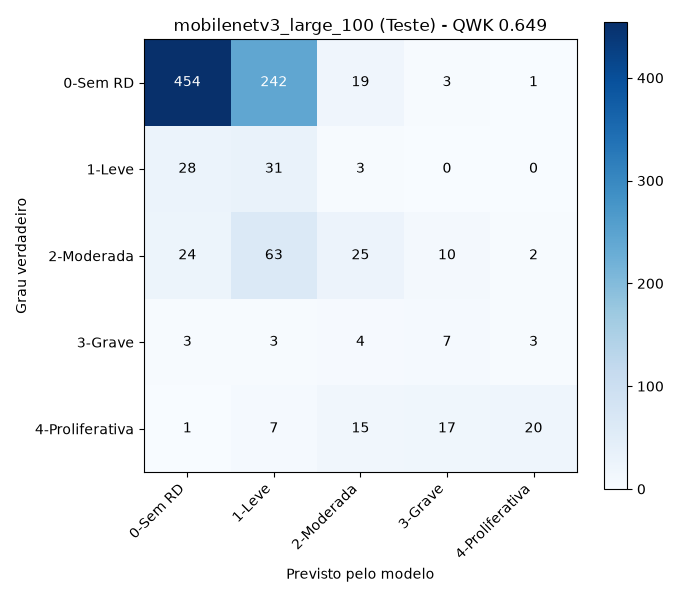
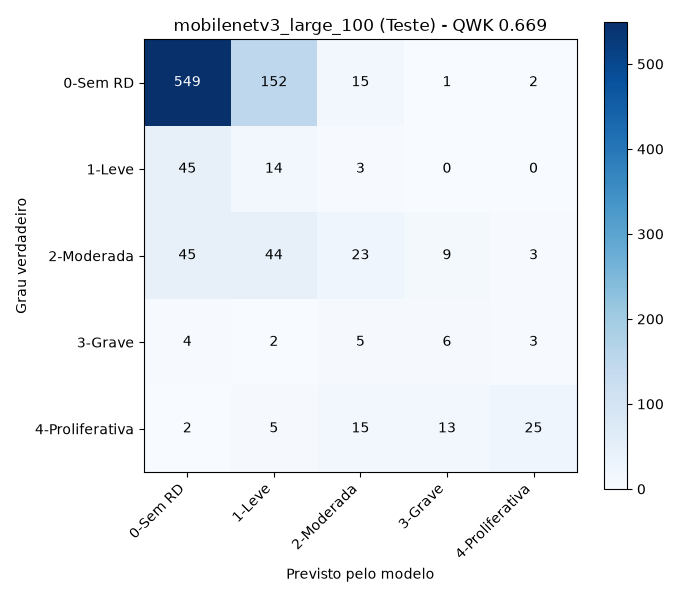
add teste com Dice e resultados

diff --git a/run_cuda.py b/run_cuda.py
@@ -1,0 +1,58 @@
+"""Verifica o ambiente CUDA e executa o main.py original em outro processo."""
+
+import argparse
+from pathlib import Path
+import subprocess
+import sys
+
+
+def check_cuda():
+    import torch
+
+    available = torch.cuda.is_available()
+    print(f"Python: {sys.version.split()[0]}", flush=True)
+    print(f"Executavel: {sys.executable}", flush=True)
+    print(f"PyTorch: {torch.__version__}", flush=True)
+    print(f"CUDA do PyTorch: {torch.version.cuda}", flush=True)
+    print(f"torch.cuda.is_available(): {available}", flush=True)
+    if not available:
+        raise RuntimeError("CUDA indisponivel. O experimento nao sera iniciado.")
+
+    print(f"GPU: {torch.cuda.get_device_name(0)}", flush=True)
+    print("Device do experimento: cuda (cuda:0)", flush=True)
+    # Verifica kernels CUDA e cuDNN, incluindo backward, antes do experimento.
+    layer = torch.nn.Conv2d(3, 4, kernel_size=3).to("cuda")
+    inputs = torch.ones(2, 3, 16, 16, device="cuda", requires_grad=True)
+    output = layer(inputs)
+    output.square().mean().backward()
+    torch.cuda.synchronize()
+    if not torch.isfinite(output).all().item():
+        raise RuntimeError("O teste CUDA produziu valores nao finitos.")
+    if inputs.grad is None or not torch.isfinite(inputs.grad).all().item():
+        raise RuntimeError("O teste de gradientes CUDA falhou.")
+    print("Teste CUDA/cuDNN (forward e backward): OK", flush=True)
+    del inputs, output, layer
+    torch.cuda.empty_cache()
+
+
+def main():
+    parser = argparse.ArgumentParser(description=__doc__)
+    parser.add_argument("--check", action="store_true", help="Somente verificar CUDA.")
+    args = parser.parse_args()
+    if args.check:
+        check_cuda()
+        return 0
+
+    # O teste termina antes do treino, liberando a GPU e preservando o estado aleatorio.
+    root = Path(__file__).resolve().parent
+    probe = subprocess.run([sys.executable, "-u", str(Path(__file__).resolve()), "--check"], cwd=root)
+    if probe.returncode != 0:
+        return probe.returncode
+    print("Iniciando main.py com as configuracoes originais...", flush=True)
+    result = subprocess.run([sys.executable, "-u", str(root / "main.py")], cwd=root)
+    print(f"main.py encerrado com codigo {result.returncode}.", flush=True)
+    return result.returncode
+
+
+if __name__ == "__main__":
+    raise SystemExit(main())

diff --git a/src/train.py b/src/train.py
@@ -1,6 +1,31 @@
 import torch
 import torch.nn as nn
+import torch.nn.functional as F
 from sklearn.metrics import cohen_kappa_score, accuracy_score
+
+def pseudo_dice_loss(preds, targets, smooth=1.0):
+    """
+    Dice loss adapted for ordinal scalars (0 to 4).
+    Normalizes the values to [0, 1] to calculate overlap.
+    """
+    preds_norm = torch.clamp(preds, 0, 4) / 4.0
+    targets_norm = targets / 4.0
+    
+    num = 2.0 * (preds_norm * targets_norm).sum() + smooth
+    den = preds_norm.sum() + targets_norm.sum() + smooth
+    return 1.0 - num / den
+
+class CombinedMSEDiceLoss(nn.Module):
+    def __init__(self, mse_weight=0.5):
+        super().__init__()
+        self.mse_weight = mse_weight
+        self.mse = nn.MSELoss(reduction='mean')
+        
+    def forward(self, preds, targets):
+        mse_loss = self.mse(preds, targets)
+        dice_loss = pseudo_dice_loss(preds, targets)
+        return self.mse_weight * mse_loss + (1.0 - self.mse_weight) * dice_loss
+
 
 def evaluate_model(model, loader, device, criterion):
     model.eval()
@@ -56,7 +81,8 @@ def grid_search(model_name, get_model_fn, dl_treino, dl_val, device, params_grid
         
         modelo = get_model_fn(model_name).to(device)
         otimizador = torch.optim.AdamW(modelo.parameters(), lr=params['lr'], weight_decay=params.get('weight_decay', 0))
-        criterio = nn.MSELoss(reduction='mean')
+        # Utilizando a função de perda combinada (MSE + Dice)
+        criterio = CombinedMSEDiceLoss(mse_weight=0.5)
         
         melhor_qwk_local = -1
         

diff --git a/AMBIENTE_CUDA.md b/AMBIENTE_CUDA.md
@@ -1,0 +1,46 @@
+# Execucao local com NVIDIA CUDA
+
+O ambiente virtual do projeto fica em `.venv`. Use seu executavel diretamente;
+nao e necessario ativar o ambiente nem alterar a politica de scripts do PowerShell.
+
+Na pasta deste arquivo, verifique o ambiente:
+
+```powershell
+.\.venv\Scripts\python.exe run_cuda.py --check
+```
+
+Para iniciar uma nova execucao completa:
+
+```powershell
+.\.venv\Scripts\python.exe -u run_cuda.py
+```
+
+O iniciador imprime GPU, PyTorch, CUDA e device, testa forward/backward na GPU
+e somente inicia `main.py` se CUDA funcionar. A verificacao usa um processo
+separado, encerrado antes do experimento, preservando o estado aleatorio do treino.
+O codigo original do experimento permanece inalterado.
+
+## Ambiente
+
+- Python 3.12.14, reutilizado da instalacao existente em
+  `C:\Users\brunn\.cache\codex-runtimes\codex-primary-runtime\dependencies\python\python.exe`.
+  A `.venv` depende dessa instalacao base; mantenha-a no mesmo caminho.
+- PyTorch 2.13.0+cu130 e torchvision 0.28.0+cu130, obtidos do indice oficial
+  <https://download.pytorch.org/whl/cu130>.
+- O CUDA Toolkit nao foi instalado separadamente.
+- As versoes completas das dependencias ficam em `logs/environment-freeze.txt`.
+
+O Windows desta maquina tem suporte a caminhos longos desativado. Para instalar
+o PyTorch nesta pasta, foi usado o prefixo de caminho estendido `\\?\` no
+executavel Python. Isso resolveu o erro WinError 206 sem modificar o registro
+do Windows. A execucao normal aceita o caminho convencional mostrado acima.
+
+## Resultados e logs
+
+O programa grava os checkpoints na raiz e os resultados em `results`, como
+definido originalmente. Os resultados preexistentes foram copiados para
+`bkp/antes_cuda_20260922_231754/results` antes da execucao.
+
+Os logs desta execucao e seus identificadores de processo ficam em `logs`.
+Evite iniciar uma segunda execucao enquanto a atual estiver rodando: ambas
+usariam os mesmos nomes de checkpoints e resultados.
